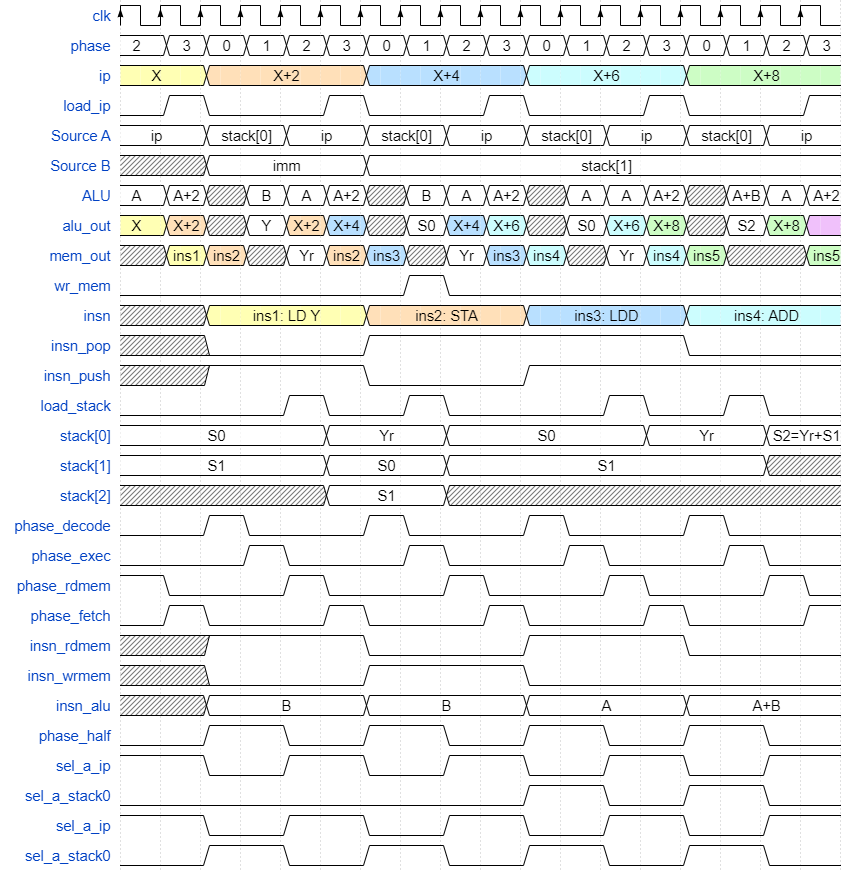
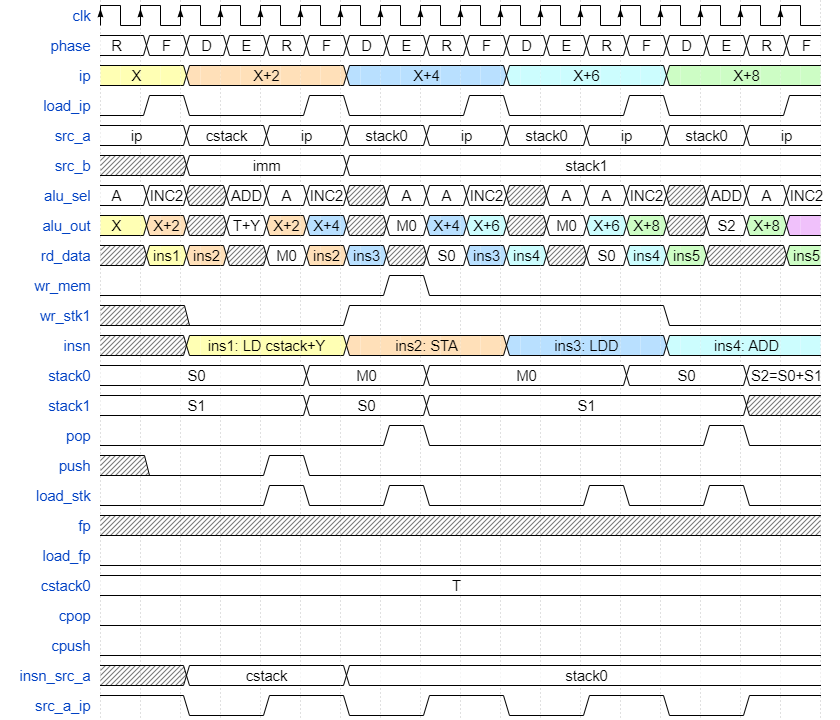
タイミング図を更新

diff --git a/doc/signal-timing-design/cpu-mem-timing_jz-fp.py b/doc/signal-timing-design/cpu-mem-timing_jz-fp.py
@@ -2,30 +2,25 @@
   signal: [
     {name: 'clk',          wave: 'PPPPPPPPPPPPPPPPPP'},
     {name: 'phase',        wave: '222222222222222222', data: [2, 3, 0, 1, 2, 3, 0, 1, 2, 3, 0, 1, 2, 3, 0, 1, 2, 3]},
-    {name: 'ip',           wave: '3.4...2.5.6...7...', data: ['X', 'X+2', 'X+4', 'Y', 'Y+2', 'Y+4']},
-    {name: 'load_ip',      wave: '01010101010..10..1'}, // phase_fetch | reload_ip
-    {name: 'Source A',     wave: '2.2.2.2.2.2.2.2.2.', data: ['ip', 'ip', 'ip', 'ip', 'ip', 'fp', 'ip', 'cstack[0]', 'ip']},
-    {name: 'Source B',     wave: 'x.2...............', data: ['imm']},
-  	{name: 'ALU',          wave: '22x222x222x222x222', data: ['A', 'A+2', 'A:B', 'A', 'A+2', 'A:B', 'A', 'A+2', 'A',   'A', 'A+2', 'A', 'A', 'A+2']},
-    {name: 'alu_out',      wave: '34x4.2x5.6x267x272', data: ['X', 'X+2', 'X+2', 'X+4', 'Y', 'Y+2', 'S0', 'Y+2', 'Y+4', 'S0', 'Y+4', 'Y+6']},
-    {name: 'mem_out',      wave: 'x34x4.x.5.6x.67x.7', data: ['ins1', 'ins2', 'ins2', 'ins3', 'ins4', 'ins4', 'ins5', 'ins5']},
-    {name: 'insn',         wave: 'x.3...4...5...6...', data: ['ins1: JZ Y', 'ins2: JZ Y', 'ins3: PUSHFP', 'ins4: POPFP']},
-    {name: 'insn_ip',      wave: 'x.1.......0.......',}, // ip を用いる命令
-    {name: 'insn_fp',      wave: 'x.0.......1.......',}, // fp を用いる命令
-    {name: 'stack[0]',     wave: '2....2....x.......', data: ['1', '0']},
-    {name: 'stack[1]',     wave: '2....x............', data: ['0']},
-    {name: 'insn_cpop',    wave: 'x.0...........1...'},
-    {name: 'insn_cpush',   wave: 'x.0.......1...0...'},
-    {name: 'fp',           wave: '2...............2.', data: ['S0', 'S0']},
-    {name: 'cstack[0]',    wave: 'x...........2...x.', data: ['S0']},
-    {name: 'phase_decode', wave: '0.10..10..10..10..'}, // phase == 0
-    {name: 'phase_exec',   wave: '0..10..10..10..10.'}, // phase == 1
-    {name: 'phase_rdmem',  wave: '10..10..10..10..10'}, // phase == 2
-    {name: 'phase_fetch',  wave: '010..10..10..10..1'}, // phase == 2
-    {name: 'reload_ip',    wave: '0..10..10.........'}, // insn_br & phase_exec
-    {name: 'phase_half',   wave: '0.1.0.1.0.1.0.1.0.'}, // phase_decode | phase_exec
-    {name: 'sel_a_ip',     wave: '1.........0.1.0.1.'}, // insn_ip | ~phase_half
-    {name: 'sel_a_fp',     wave: '0.........1.0.....'}, // insn_cpush & insn_fp & phase_half
-    {name: 'sel_a_cstack', wave: '0.............1.0.'}, // insn_cpop & phase_half
+    {name: 'ip',           wave: '3.4...2.5.6...7...', data: ['X', 'X+2', 'X+4', 'X+8', 'X+10', 'X+12']},
+    {name: 'load_ip',      wave: '01010101010..10..1'},
+    {name: 'src_a',        wave: '2.2.2.2.2.2.2.2.2.', data: ['ip', 'ip', 'ip', 'ip', 'ip', 'fp', 'ip', 'cstack', 'ip']},
+    {name: 'src_b',        wave: 'x.2.......2.......', data: ['imm', 'stack1']},
+  	{name: 'alu_sel',      wave: '22x222x2222.22x222', data: ['A', 'A+2', 'ADDZ', 'A', 'A+2', 'ADDZ', 'A', 'A+2', 'A',   'A', 'A+2', 'A', 'A', 'A+2']},
+    {name: 'alu_out',      wave: '34x4.2x5.62.67x272', data: ['X', 'X+2', 'X+2', 'X+4', 'X+8', 'X+10', 'S', 'X+10', 'X+12', 'S', 'X+12', 'X+14']},
+    {name: 'rd_data',      wave: 'x34x4.x.5.6x.67x.7', data: ['ins1', 'ins2', 'ins2', 'ins3', 'ins4', 'ins4', 'ins5', 'ins5']},
+    {name: 'insn',         wave: 'x.3...4...5...6...', data: ['ins1: JZ 6', 'ins2: JZ 4', 'ins3: CPUSH FP', 'ins4: CPOP FP']},
+    {name: 'stack0',       wave: '2...2...x.........', data: ['1', '0']},
+    {name: 'stack1',       wave: '2...x.............', data: ['0']},
+    {name: 'pop',          wave: '0..10..10.........'},
+    {name: 'push',         wave: 'x0................'},
+    {name: 'load_stk',     wave: '0.................'},
+    {name: 'fp',           wave: '2...............2.', data: ['S', 'S']},
+    {name: 'load_fp',      wave: '0..............10.'},
+    {name: 'cstack0',      wave: 'x..........2....x.', data: ['S']},
+    {name: 'cpop',         wave: '0..............10.'},
+    {name: 'cpush',        wave: '0.........10......'},
+    {name: 'insn_src_a',   wave: 'x.2.......2...2...', data: ['ip', 'fp', 'cstack']},
+    {name: 'src_a_ip',     wave: '1.........0.1.0.1.'},
   ],
 }

diff --git a/doc/signal-timing-design/cpu-mem-timing.py b/doc/signal-timing-design/cpu-mem-timing.py
@@ -3,26 +3,26 @@
     {name: 'clk',          wave: 'PPPPPPPPPPPPPPPPPP'},
     {name: 'phase',        wave: '222222222222222222', data: ['R', 'F', 'D', 'E', 'R', 'F', 'D', 'E', 'R', 'F', 'D', 'E', 'R', 'F', 'D', 'E', 'R', 'F']},
     {name: 'ip',           wave: '3.4...5...6...7...', data: ['X', 'X+2', 'X+4', 'X+6', 'X+8']},
-    {name: 'load_ip',      wave: '010..10..10..10..1'}, // phase_fetch | reload_ip
+    {name: 'load_ip',      wave: '010..10..10..10..1'},
     {name: 'src_a',        wave: '2.2.2.2.2.2.2.2.2.', data: ['ip', 'cstack', 'ip', 'stack0', 'ip', 'stack0', 'ip', 'stack0', 'ip']},
     {name: 'src_b',        wave: 'x.2...2...........', data: ['imm', 'stack1']},
   	{name: 'alu_sel',      wave: '22x222x222x222x222', data: ['A', 'INC2', 'ADD', 'A', 'INC2', 'A', 'A', 'INC2', 'A', 'A', 'INC2', 'ADD', 'A', 'INC2']},
     {name: 'alu_out',      wave: '34x245x256x267x278', data: ['X', 'X+2', 'T+Y', 'X+2', 'X+4', 'M0', 'X+4', 'X+6', 'M0', 'X+6', 'X+8', 'S2', 'X+8']},
     {name: 'rd_data',      wave: 'x34x245x256x267x.7', data: ['ins1', 'ins2', 'M0', 'ins2', 'ins3', 'S0', 'ins3', 'ins4', 'S0', 'ins4', 'ins5', 'ins5']},
-    {name: 'wr_mem',       wave: '0......10.........'}, // insn_wrmem & phase_exec
+    {name: 'wr_mem',       wave: '0......10.........'},
     {name: 'wr_stk1',      wave: 'x.0...1.......0...'},
     {name: 'insn',         wave: 'x.3...4...5...6...', data: ['ins1: LD cstack+Y', 'ins2: STA', 'ins3: LDD', 'ins4: ADD']},
     {name: 'stack0',       wave: '2....2..2....2..2.', data: ['S0', 'M0', 'M0', 'S0', 'S2=S0+S1']},
     {name: 'stack1',       wave: '2....2..2.......x.', data: ['S1', 'S0', 'S1']},
     {name: 'pop',          wave: '0......10......10.'},
     {name: 'push',         wave: 'x0..10............'},
-    {name: 'load_stk',     wave: '0...10.10...10.10.'}, // (~insn_rdmem & phase_exec) | (insn_rdmem & phase_rdmem)
+    {name: 'load_stk',     wave: '0...10.10...10.10.'},
     {name: 'fp',           wave: 'x.................'},
-    {name: 'load_fp',      wave: '0.................'}, // phase_fetch | reload_ip
+    {name: 'load_fp',      wave: '0.................'},
     {name: 'cstack0',      wave: '2.................', data: ['T']},
     {name: 'cpop',         wave: '0.................'},
     {name: 'cpush',        wave: '0.................'},
     {name: 'insn_src_a',   wave: 'x.2...2...........', data: ['cstack', 'stack0']},
-    {name: 'src_a_ip',     wave: '1.0.1.0.1.0.1.0.1.'}, // ~phase_half | insn_src_a === 2
+    {name: 'src_a_ip',     wave: '1.0.1.0.1.0.1.0.1.'},
   ],
 }
